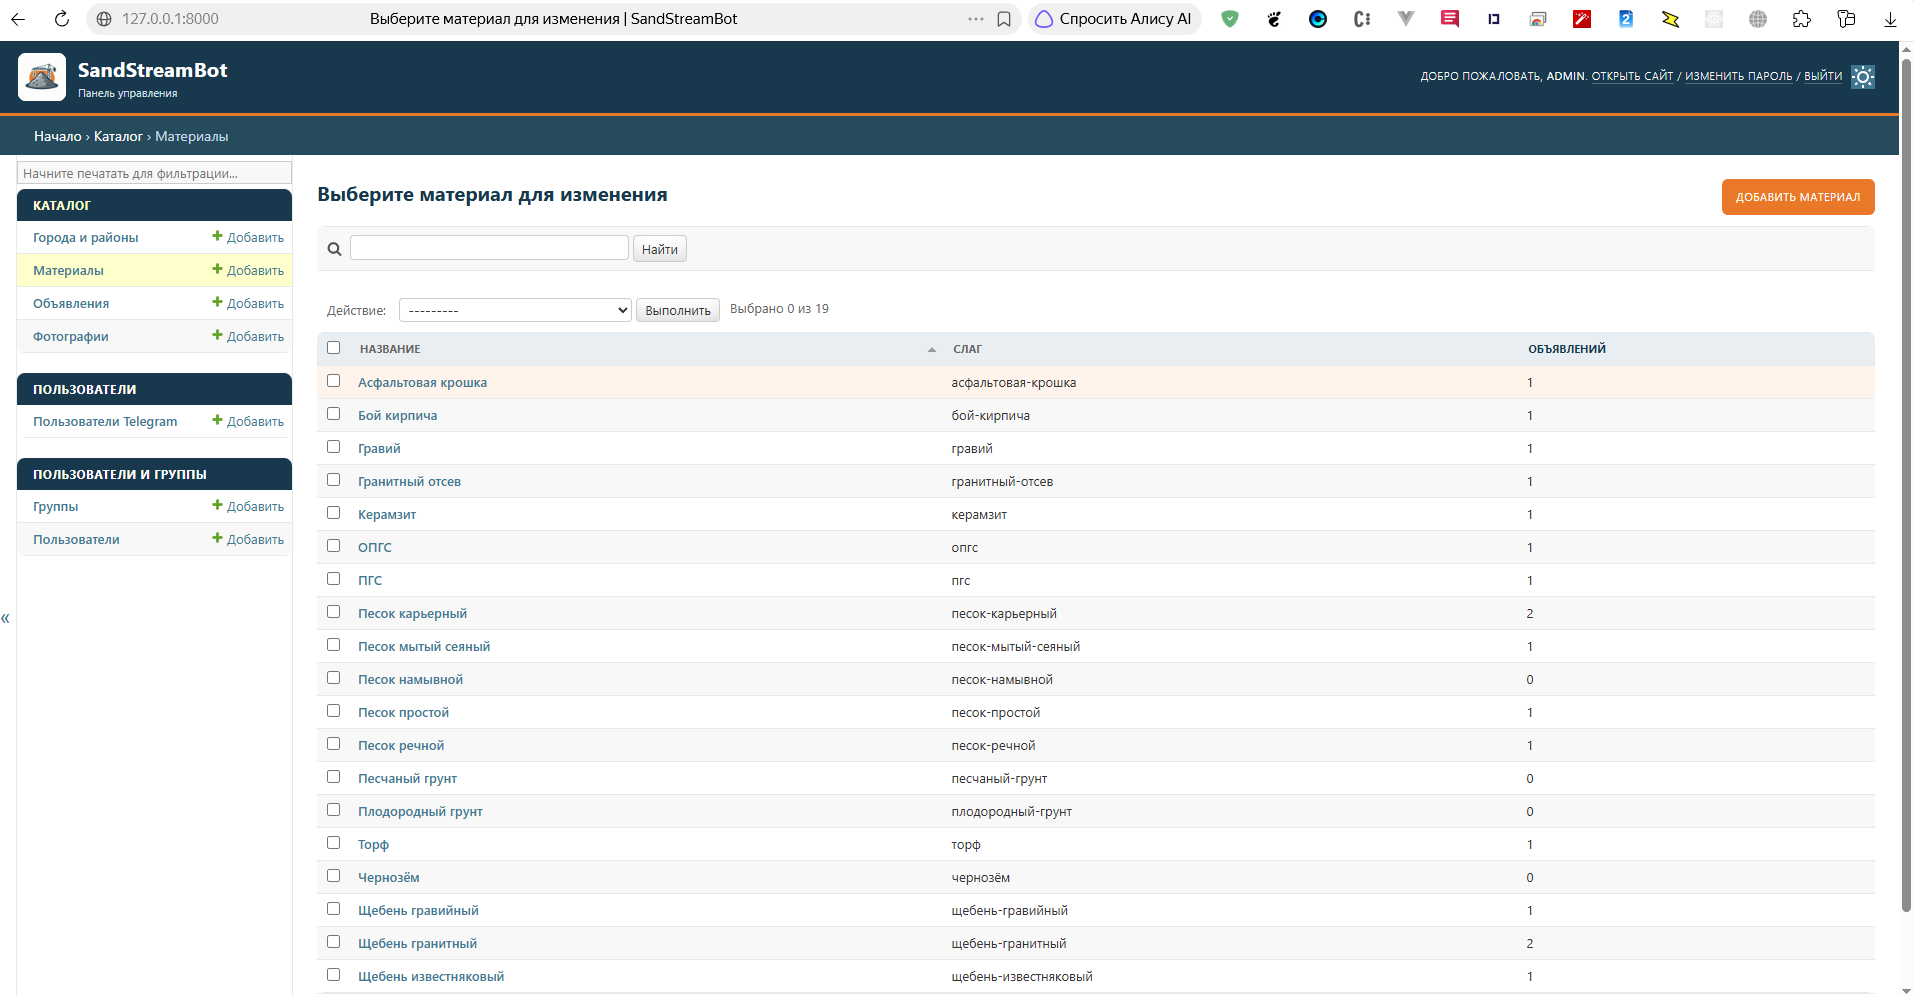
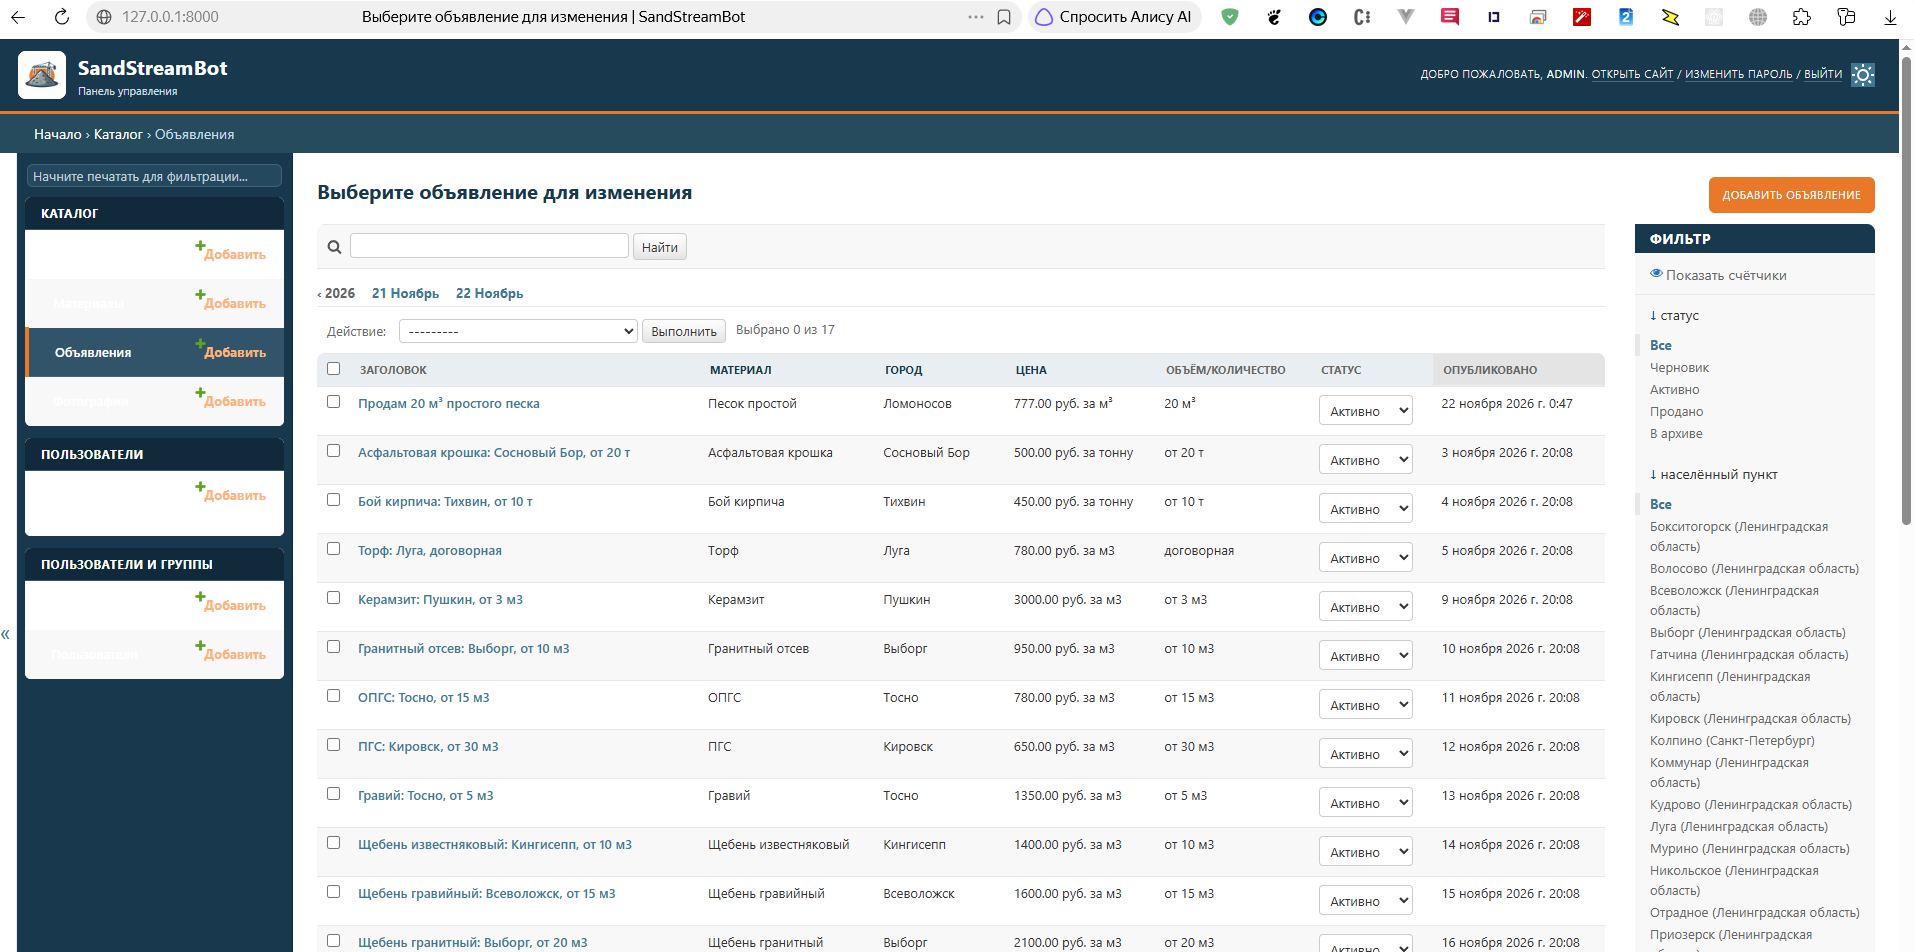
Design4

diff --git a/web/catalog/static/catalog/css/admin-fix.css b/web/catalog/static/catalog/css/admin-fix.css
@@ -200,3 +200,209 @@ html[data-theme="dark"] .module h2 {
         padding: 14px;
     }
 }
+
+
+/* =========================================
+   SandStreamBot — Sidebar Navigation
+   ========================================= */
+
+/* Боковая панель */
+#nav-sidebar {
+    background: var(--ssb-navy);
+    border-right: 1px solid var(--ssb-navy-dark);
+}
+
+/* Поиск по меню */
+#nav-sidebar #nav-filter {
+    background: #24485E;
+    color: #FFFFFF;
+    border: 1px solid #426176;
+    border-radius: 6px;
+    margin: 10px;
+    width: calc(100% - 20px);
+    box-sizing: border-box;
+}
+
+#nav-sidebar #nav-filter::placeholder {
+    color: #C2D0DA;
+}
+
+/* Заголовки приложений */
+#nav-sidebar .module caption,
+#nav-sidebar .module caption a {
+    background: var(--ssb-navy-dark);
+    color: #FFFFFF !important;
+    font-weight: 700;
+    text-transform: uppercase;
+    letter-spacing: 0.4px;
+}
+
+#nav-sidebar .module caption {
+    border-bottom: 1px solid #34566B;
+}
+
+/* Пункты меню */
+#nav-sidebar .module th,
+#nav-sidebar .module td {
+    background: transparent;
+    border-bottom: 1px solid rgba(255, 255, 255, 0.10);
+}
+
+#nav-sidebar .module th a,
+#nav-sidebar .module td a {
+    color: #DCE7EF !important;
+    display: inline-block;
+    padding: 8px 10px;
+    text-decoration: none;
+}
+
+/* Наведение */
+#nav-sidebar .module tr:hover th,
+#nav-sidebar .module tr:hover td {
+    background: #24485E;
+}
+
+#nav-sidebar .module tr:hover a {
+    color: #FFFFFF !important;
+}
+
+/* Активный раздел */
+#nav-sidebar .current-model th,
+#nav-sidebar .current-model td {
+    background: #31546A;
+}
+
+#nav-sidebar .current-model th {
+    border-left: 4px solid var(--ssb-orange);
+}
+
+#nav-sidebar .current-model a {
+    color: #FFFFFF !important;
+    font-weight: 700;
+}
+
+/* Кнопки добавления в меню */
+#nav-sidebar .addlink {
+    color: #FFAD70 !important;
+}
+
+#nav-sidebar .addlink:hover {
+    color: #FFFFFF !important;
+}
+
+/* Кнопки изменения */
+#nav-sidebar .changelink {
+    color: #DCE7EF !important;
+}
+
+/* Разделитель меню */
+#nav-sidebar .module {
+    border: none;
+    border-radius: 6px;
+    margin: 0 8px 12px;
+    overflow: hidden;
+    box-shadow: none;
+}
+
+/* Скрытый поиск при свёрнутом меню */
+#nav-sidebar input {
+    color-scheme: dark;
+}
+
+/* Тёмная тема */
+html[data-theme="dark"] #nav-sidebar {
+    background: #102A3B;
+}
+
+html[data-theme="dark"] #nav-sidebar .module th,
+html[data-theme="dark"] #nav-sidebar .module td {
+    background: transparent;
+}
+
+html[data-theme="dark"] #nav-sidebar .module tr:hover th,
+html[data-theme="dark"] #nav-sidebar .module tr:hover td {
+    background: #24485E;
+}
+
+/* Мобильная версия */
+@media (max-width: 767px) {
+    #nav-sidebar {
+        border-right: none;
+    }
+
+    #nav-sidebar .module {
+        margin-left: 6px;
+        margin-right: 6px;
+    }
+}
+
+/* =========================================
+   SandStreamBot — Sidebar Contrast Fix
+   ========================================= */
+
+/* Фон всех строк меню */
+#nav-sidebar .module table,
+#nav-sidebar .module tbody,
+#nav-sidebar .module tr,
+#nav-sidebar .module th,
+#nav-sidebar .module td {
+    background-color: #17384D !important;
+    color: #FFFFFF !important;
+}
+
+/* Обычные названия разделов */
+#nav-sidebar .module th a,
+#nav-sidebar .module td a,
+#nav-sidebar .module a:link,
+#nav-sidebar .module a:visited {
+    color: #FFFFFF !important;
+    font-weight: 600;
+}
+
+/* Кнопки добавления */
+#nav-sidebar .module a.addlink,
+#nav-sidebar .module a.addlink:link,
+#nav-sidebar .module a.addlink:visited {
+    color: #FFAD70 !important;
+    font-weight: 700;
+}
+
+/* Кнопки изменения */
+#nav-sidebar .module a.changelink,
+#nav-sidebar .module a.changelink:link,
+#nav-sidebar .module a.changelink:visited {
+    color: #FFFFFF !important;
+    font-weight: 600;
+}
+
+/* Наведение */
+#nav-sidebar .module tr:hover,
+#nav-sidebar .module tr:hover th,
+#nav-sidebar .module tr:hover td {
+    background-color: #31546A !important;
+}
+
+/* Активный пункт */
+#nav-sidebar .module .current-model,
+#nav-sidebar .module .current-model th,
+#nav-sidebar .module .current-model td {
+    background-color: #31546A !important;
+}
+
+#nav-sidebar .module .current-model th {
+    border-left: 4px solid #E97828;
+}
+
+/* Заголовки групп */
+#nav-sidebar .module caption,
+#nav-sidebar .module caption a {
+    background-color: #102A3B !important;
+    color: #FFFFFF !important;
+}
+
+/* Светлая и тёмная темы */
+html[data-theme="light"] #nav-sidebar .module table,
+html[data-theme="dark"] #nav-sidebar .module table {
+    background-color: #17384D !important;
+}
+

diff --git a/app/__main__.py b/app/__main__.py
@@ -20,6 +20,7 @@ async def main() -> None:
     setup_django()
 
     from app.handlers.listings import router as listings_router
+    from app.handlers.search import router as search_router
     from app.handlers.start import router as start_router
 
     bot = create_bot()
@@ -30,7 +31,8 @@ async def main() -> None:
     dp = Dispatcher(storage=storage)
     dp.include_router(start_router)
     dp.include_router(listings_router)
-
+    dp.include_router(search_router)
+    
     try:
         await dp.start_polling(bot)
     finally:
